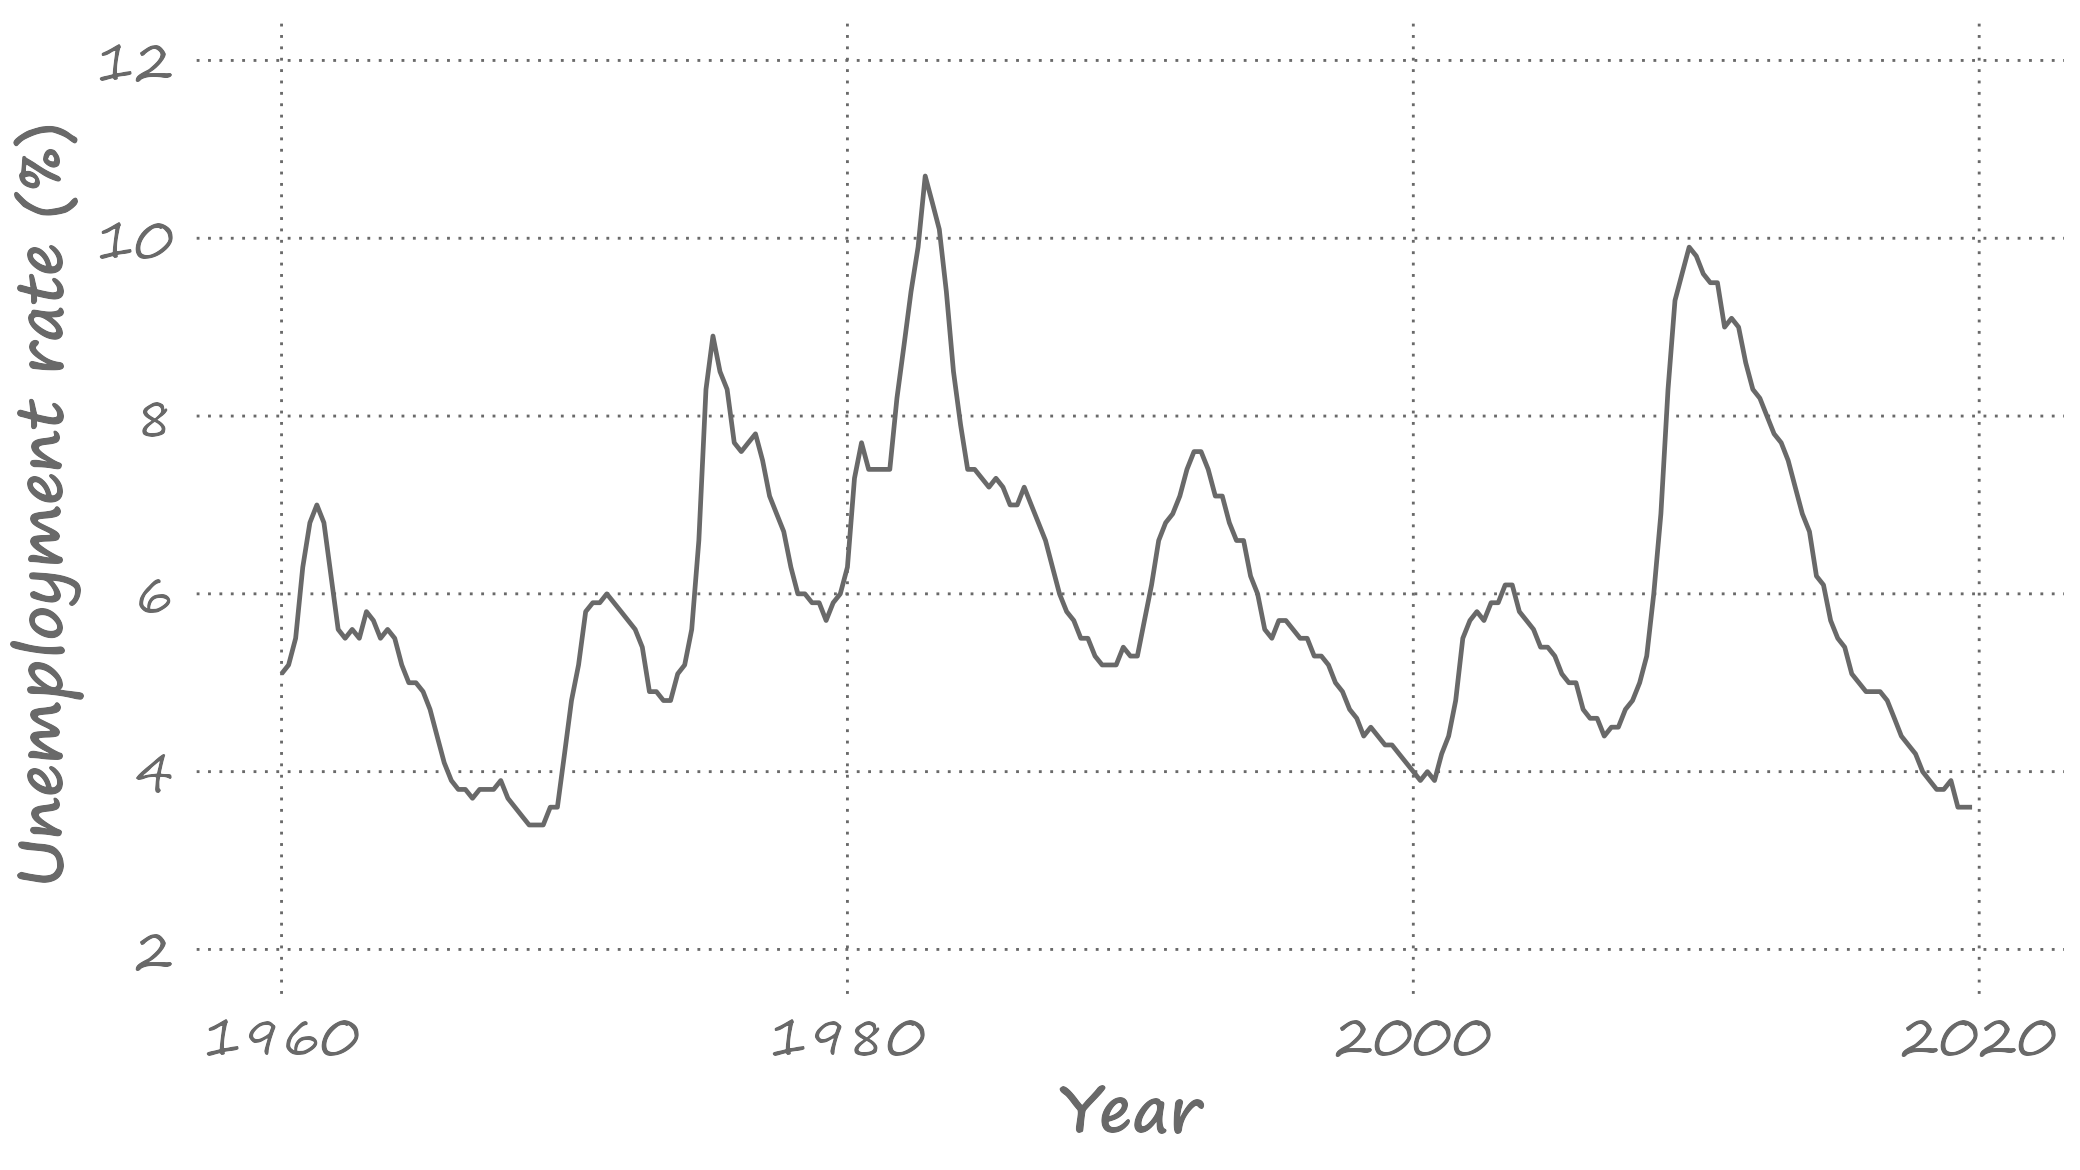
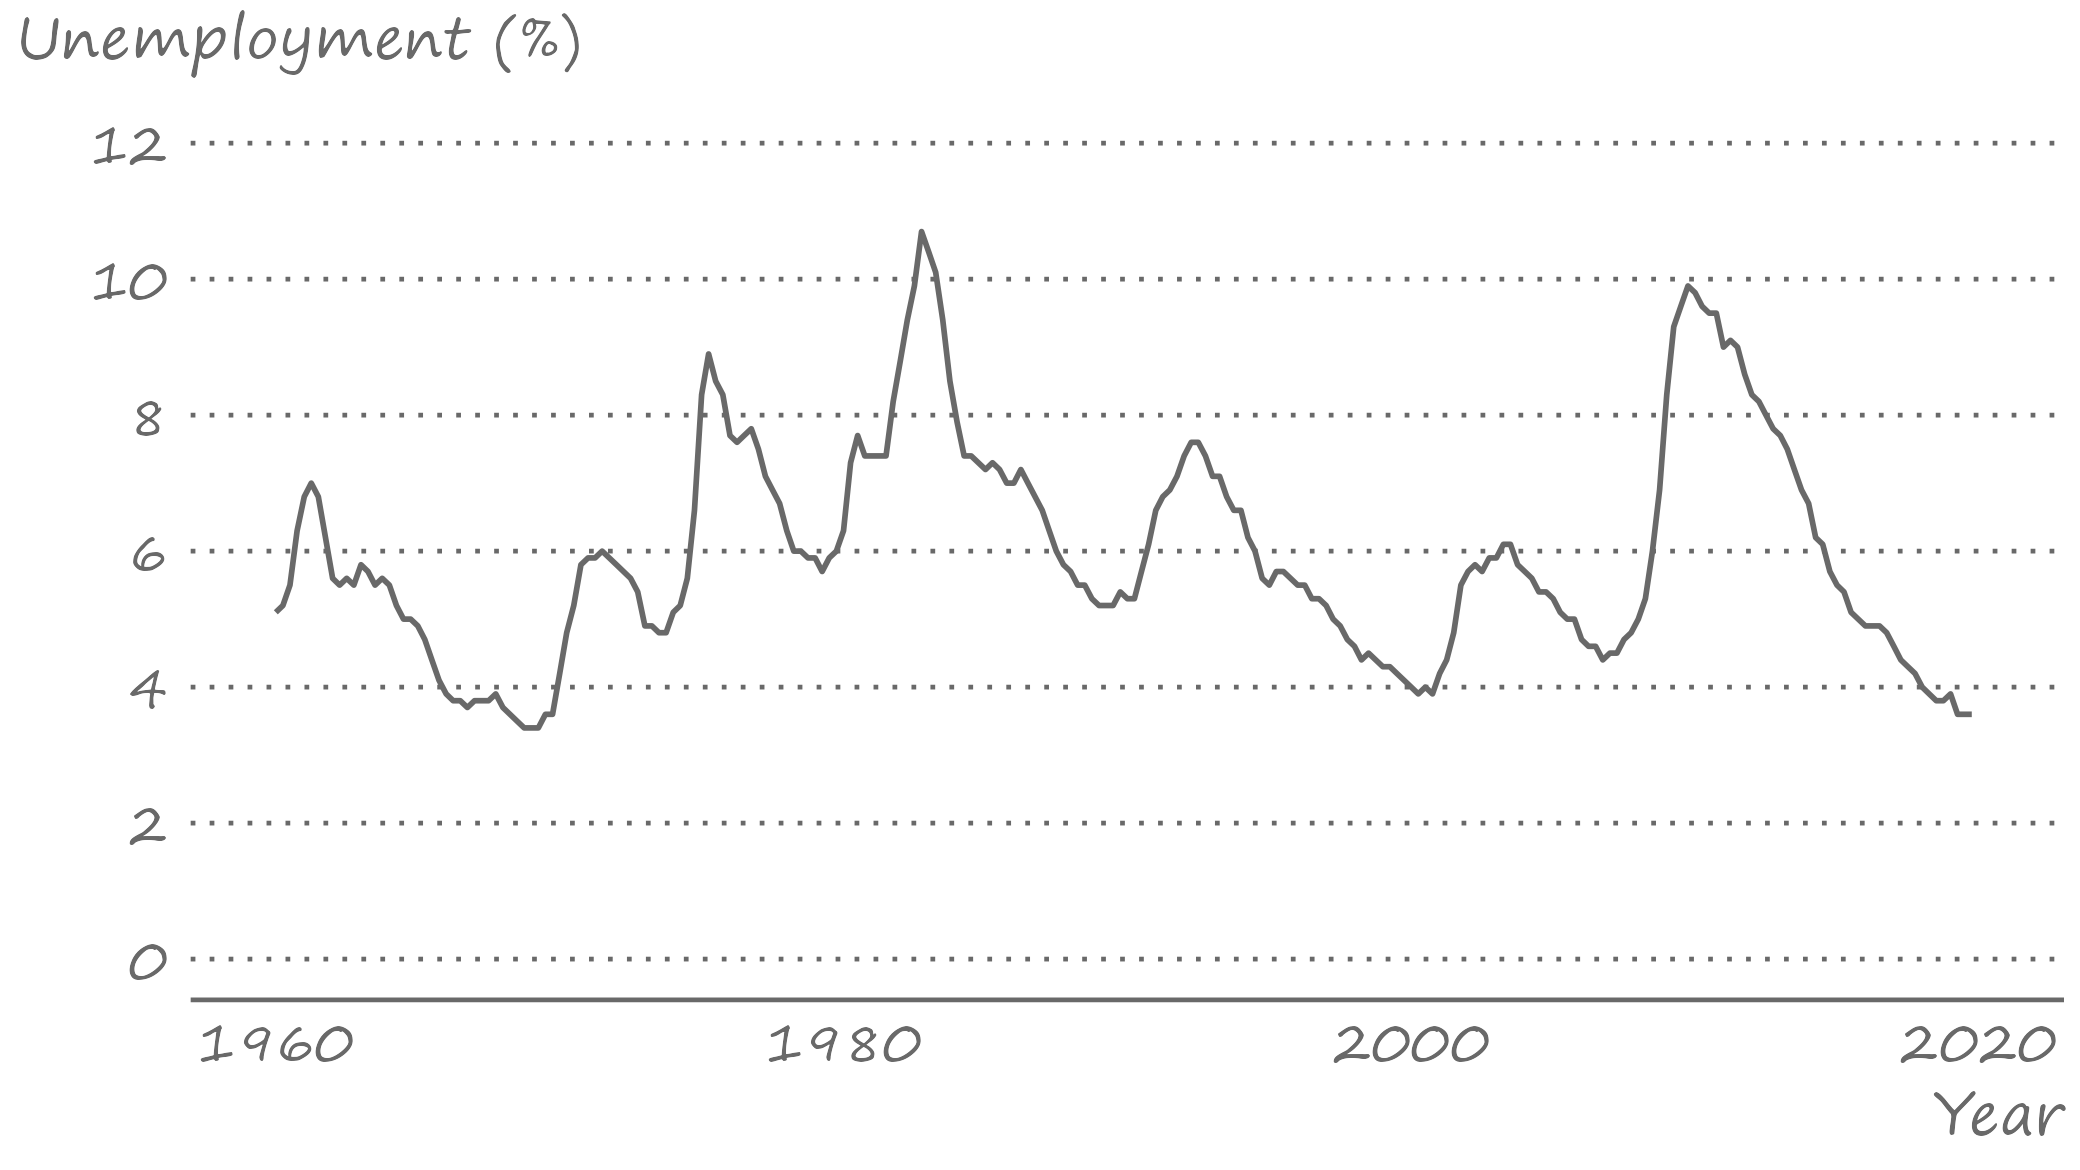
lec 7

diff --git a/07-Autoregression.html b/07-Autoregression.html
@@ -4,7 +4,7 @@
     <title>Forecasting for Economics and Business</title>
     <meta charset="utf-8" />
     <meta name="author" content="David Ubilava" />
-    <script src="libs/header-attrs-2.22/header-attrs.js"></script>
+    <script src="libs/header-attrs-2.25/header-attrs.js"></script>
     <link href="libs/remark-css-0.0.1/default.css" rel="stylesheet" />
     <link href="libs/remark-css-0.0.1/metropolis.css" rel="stylesheet" />
     <link href="libs/remark-css-0.0.1/metropolis-fonts.css" rel="stylesheet" />
@@ -49,19 +49,19 @@ class: center, middle, inverse, title-slide
 ]
 
 .pull-right[
-A cycle, in a time series, is a pattern of periodic fluctuations. Unlike seasonality, cycles are not contained within a calendar year.
+A time series that exhibit a pattern of periodic fluctuations is referred to as a cyclical series. 
 
 Cycles can be *deterministic* or *stochastic*. 
 
-Deterministic cycles can be modeled in a fashion similar to seasonality (e.g., using terms from a Fourier series). However, economic time series are better characterized by stochastic cycles.
+Deterministic cycles can be modeled in a fashion similar to seasonality (e.g., using terms from a Fourier series). However, many time series, and especially economic time series, are better characterized by stochastic cycles.
 ]
 
 ---
 
 
-# Seasonally adjusted unemployment rates
+# Cycles in seasonally adjusted unemployment rates
 
-.right-column[
+.right-figure[
 ![](figures/lecture7/unrate.png)
 ]
 
@@ -90,50 +90,10 @@ This is also referred to as an *autoregressive process*.
 .right-column[
 We can apply an autoregresive model to approximate the relationship between the realizations of the random variables from previous periods and that from the current period.
 
-For exammple, an autoregressive model of order `\(p\)`, `\(AR(p)\)`, has the following functional form:
+In general terms, an autoregressive model of order `\(p\)`, `\(AR(p)\)`, has the following functional form:
 `$$y_t = \alpha + \beta_1 y_{t-1}+\beta_2 y_{t-2}+ \cdots + \beta_p y_{t-p}+\varepsilon_t$$`
 
 The sum of the autoregressive parameters, `\(\beta_1,\ldots,\beta_p\)`, depicts the persistence of the series. The larger is the persistence (i.e., closer it is to one), the longer it takes for the effect of a shock to dissolve.
-]
-
----
-
-
-# Autoregression of order one&amp;mdash;AR(1)
-
-.right-column[
-The simplest, i.e., the most parsimonious model is the first-order autoregression: `$$y_t = \alpha + \beta_1 y_{t-1} + \varepsilon_t,$$` where `\(\alpha\)` is a constant term; `\(\beta_1\)` is the *persistence* parameter; and `\(\varepsilon_t\)` is a white noise process.
-
-We only require `\(|\beta_1| &lt; 1\)` for an `\(AR(1)\)` process to be covariance stationary.
-]
-
----
-
-
-# Autoregression of order one&amp;mdash;AR(1)
-
-.right-column[
-Substitute recursively lagged dependent variables:
-$$
-`\begin{align}
-y_t &amp;= \alpha + \beta_1 y_{t-1} + \varepsilon_t \notag \\
-y_t &amp;= \alpha + \beta_1 (\alpha + \beta_1 y_{t-2} + \varepsilon_{t-1}) + \varepsilon_t \notag \\
-&amp;= \alpha(1+\beta_1) + \beta_1^2 (\alpha + \beta_1 y_{t-3} + \varepsilon_{t-2}) + \beta_1\varepsilon_{t-1} + \varepsilon_t \notag \\
-&amp;\vdots  \notag \\
-&amp;= \alpha\sum_{i=0}^{k-1}\beta_1^i + \beta_1^k y_{t-k} + \sum_{i=0}^{k-1}\beta_1^i\varepsilon_{t-i}
-\end{align}`
-$$
-]
-
----
-
-
-# Autoregression of order one&amp;mdash;AR(1)
-
-.right-column[
-The end-result is a general linear process with geometrically declining coefficients. The `\(|\beta_1| &lt; 1\)` (i.e., covariance-stationarity) is required for convergence.
-
-Then, as `\(k \to \infty\)`: `$$y_t = \frac{\alpha}{1-\beta_1} + \sum_{i=0}^{\infty}\beta_1^i\varepsilon_{t-i}$$`
 ]
 
 ---
@@ -220,7 +180,7 @@ Generally, the autocorrelation and partial autocorrelation functions of the cova
 
 # Autocorrelogram of the unemployment rates
 
-.right-column[
+.right-figure[
 ![](figures/lecture7/unrate_ac.png)
 ]
 
@@ -230,7 +190,7 @@ Generally, the autocorrelation and partial autocorrelation functions of the cova
 
 # Partial autocorrelogram of the unemployment rates
 
-.right-column[
+.right-figure[
 ![](figures/lecture7/unrate_pac.png)
 ]
 
@@ -293,9 +253,9 @@ One-step-ahead (95%) interval forecast: `$$y_{t+1|t} \pm 1.96\sigma_{\varepsilon
 ---
 
 
-# Onestep forecasts of the unemployment rates
+# Onestep forecasts of unemployment
 
-.right-column[
+.right-figure[
 ![](figures/lecture7/unrate_osa.png)
 ]
 
@@ -333,9 +293,9 @@ h-step-ahead (95%) interval forecast: `$$y_{t+h|t} \pm 1.96\sigma_{t+h|t}$$`
 
 
 
-# Iterated multistep forecasts of the unemployment rates
+# Iterated multistep forecasts of unemployment
 
-.right-column[
+.right-figure[
 ![](figures/lecture7/unrate_ite.png)
 ]
 
@@ -344,7 +304,7 @@ h-step-ahead (95%) interval forecast: `$$y_{t+h|t} \pm 1.96\sigma_{t+h|t}$$`
 
 
 
-# Direct multi-step-ahead forecasts
+# Direct multistep forecasts
 
 .right-column[
 We can, also, directly obtain multi-step-ahead forecasts. To illustrate, consider a first-order autoregression: `\(y_t=\alpha+\beta_1 y_{t-1}+\varepsilon_t.\)` 
@@ -357,7 +317,7 @@ Two-step-ahead point forecast, from the iterative method, is: `$$y_{t+2|t}=\alph
 ---
 
 
-# Direct multi-step-ahead forecasts
+# Direct multistep forecasts
 
 .right-column[
 If we substitute `\(y_{t+1|t}=\alpha+\beta_1 y_{t}\)` into the iterated two-step-ahead forecast equation, we obtain:
@@ -371,7 +331,7 @@ This is the *direct* method of multi-step-ahead forecasting, which can be extend
 ---
 
 
-# Direct multi-step-ahead interval forecast
+# Direct multistep interval forecast
 
 .right-column[
 In the direct method of multistep forecasting, error terms are serially correlated (by construction). For example, note that in the direct two-step-ahead forecast from a re-specified AR(1) model, `\(u_t = \varepsilon_t+\beta_1\varepsilon_{t-1}\)`. It then follows that: `$$\sigma^2_u = \mathbb{E}\left[(\varepsilon_t+\beta_1\varepsilon_{t-1})^2\right] = \sigma^2_{\varepsilon}(1+\beta_1^2).$$` 
@@ -382,9 +342,9 @@ Thus, when applying the direct method of forecasting, interval forecasts for a g
 ---
 
 
-# Direct multistep forecasts of the unemployment rates
+# Direct multistep forecasts of unemployment
 
-.right-column[
+.right-figure[
 ![](figures/lecture7/unrate_dir.png)
 ]
 
@@ -392,7 +352,7 @@ Thus, when applying the direct method of forecasting, interval forecasts for a g
 ---
 
 
-# Direct and iterative multi-step-ahead forecasts
+# Direct and iterated multistep forecasts
 
 .right-column[
 In summary, an `\(h\)`-step-ahead forecast from an AR(p) model, using:
@@ -404,7 +364,7 @@ In summary, an `\(h\)`-step-ahead forecast from an AR(p) model, using:
 ---
 
 
-# Direct vs iterative multi-step-ahead forecasts
+# Direct vs iterated multistep forecasts
 
 .right-column[
 The relative performance of the two forecasts, `\(y_{t+h|t,i}\)` and `\(y_{t+h|t,d}\)`, in terms of bias and efficiency depends on the bias and efficiency of the estimators of each method. 
@@ -417,17 +377,59 @@ In the model is mis-specified&amp;mdash;hardly an unusual scenario&amp;mdash;the
 ---
 
 
-# Readings
+# Key takeaways
 
 .pull-left[
 ![](Art/todolist.png)
 ]
 
 .pull-right[
-Gonzalez-Rivera, Chapter 7
 
-Hyndman &amp; Athanasopoulos, [9.3](https://otexts.com/fpp3/AR.html)
 ]
+
+
+---
+
+
+# Autoregression of order one&amp;mdash;AR(1)
+
+.right-column[
+The simplest, i.e., the most parsimonious model in the family of autoregressive models, is the first-order autoregression: `$$y_t = \alpha + \beta_1 y_{t-1} + \varepsilon_t,$$` where `\(\alpha\)` is a constant term; `\(\beta_1\)` is the *persistence* parameter; and `\(\varepsilon_t\)` is a white noise process.
+
+We only require `\(|\beta_1| &lt; 1\)` for an `\(AR(1)\)` process to be covariance stationary.
+]
+
+---
+
+
+# Autoregression of order one&amp;mdash;AR(1)
+
+.right-column[
+Substitute recursively lagged dependent variables:
+$$
+`\begin{align}
+y_t &amp;= \alpha + \beta_1 y_{t-1} + \varepsilon_t \notag \\
+y_t &amp;= \alpha + \beta_1 (\alpha + \beta_1 y_{t-2} + \varepsilon_{t-1}) + \varepsilon_t \notag \\
+&amp;= \alpha(1+\beta_1) + \beta_1^2 (\alpha + \beta_1 y_{t-3} + \varepsilon_{t-2}) + \beta_1\varepsilon_{t-1} + \varepsilon_t \notag \\
+&amp;\vdots  \notag \\
+&amp;= \alpha\sum_{i=0}^{k-1}\beta_1^i + \beta_1^k y_{t-k} + \sum_{i=0}^{k-1}\beta_1^i\varepsilon_{t-i}
+\end{align}`
+$$
+]
+
+---
+
+
+# Autoregression of order one&amp;mdash;AR(1)
+
+.right-column[
+The end-result is a general linear process with geometrically declining coefficients. The `\(|\beta_1| &lt; 1\)` (i.e., covariance-stationarity) is required for convergence.
+
+Then, as `\(k \to \infty\)`: `$$y_t = \frac{\alpha}{1-\beta_1} + \sum_{i=0}^{\infty}\beta_1^i\varepsilon_{t-i}$$`
+]
+
+---
+
 
 
 
